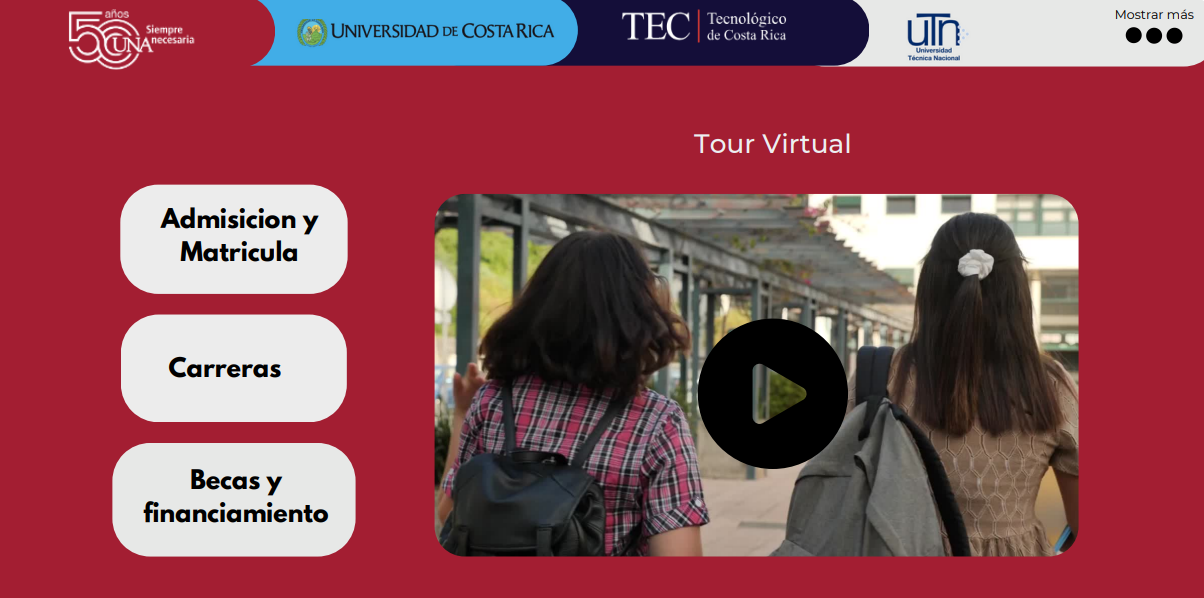
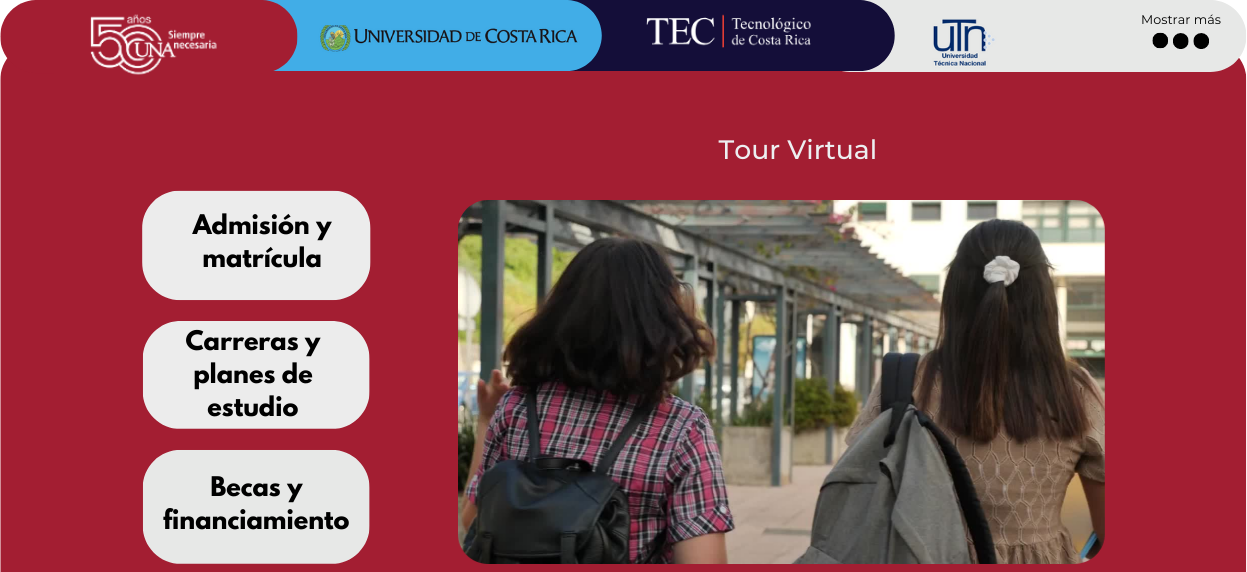
Cambios menores con tildes

diff --git a/app/components/Test.jsx b/app/components/Test.jsx
@@ -42,13 +42,19 @@ function Test() {
 
 		//find in score remainingLetters that it is equal to score of topTwoLetters
 
-		const extraMaxLetters = []
+		const extraMaxLetters2 = []
 		topTwoLetters.forEach((topLetter) => {
 			remainingLetters.forEach((remainingLetter) => {
 				if (score[topLetter] == score[remainingLetter])
-					extraMaxLetters.push(remainingLetter)
+					extraMaxLetters2.push(remainingLetter)
 			})
 		})
+		//remove duplicates from extraMaxLetters using set
+		const setExtraMaxLetters = new Set(extraMaxLetters2)
+		//convert set to array
+		const extraMaxLetters = [...setExtraMaxLetters]
+
+
 		//add extraMaxLetters to topTwoLetters
 		const topTwoLettersWithExtra = topTwoLetters.concat(extraMaxLetters)
 
@@ -120,9 +126,9 @@ function Test() {
 						})}
 					</div>
 					<p>
-            A continuación las areas de alta demanda laboral relacionadas a tu
-            personalidad vocacional. Dale click a tu carrera de interes para
-            conocer mas informacion al respecto.
+            A continuación las áreas de alta demanda laboral relacionadas a tu
+            personalidad vocacional. Dale click a tu carrera de interés para
+            conocer más información al respecto.
 					</p>
 					<div className="carrerasContainer">
 						{selectedLetters.map((letters, index) => {

diff --git a/app/carrera/[id]/[slug]/page.js b/app/carrera/[id]/[slug]/page.js
@@ -32,20 +32,20 @@ const Carrera = ({ params }) => {
 					</Link>
 
 					<Link href="/asesoria" className="btn btn-primary btn-sm bg-purple">
-            Buscas asistencia personalizada para elegir tu carrera?
+            Buscás asistencia personalizada para elegir tu carrera?
 					</Link>
 				</article>
 
 				<article>
 					<h1 className='mostrar'>
-            Analisis de mercado laboral:{' '}
+            Analisis de mercado laboral:
 						<span className="color-purple">{wordWithAccent}</span>
 					</h1>
 					<img className='mostrar' src={'/images/aml.png'} alt={data.imagen} height="650px" />
 					<p>
             Se encontraron un total de <strong>{data.ofertas} ofertas </strong>
-            de trabajo relacionadas a tu carrera universitaria de interes en la
-            ultima semana
+            de trabajo relacionadas a tu carrera universitaria de interés en la
+            última semana
 					</p>
 					<p>
             Generalmente los puestos de trabajo relacionados a esta carrera

diff --git a/app/registro/page.js b/app/registro/page.js
@@ -11,7 +11,7 @@ const Registro = () => {
 					<p>
             ¿Ya tienes una cuenta?
 						<Link href="/sign-up" passHref>
-              Inicia Sesion
+              Inicia Sesión
 						</Link>
 					</p>
 					<form>
@@ -25,7 +25,7 @@ const Registro = () => {
 						</div>
 						<div className="form-group">
 							<label className="labelBlack">
-                Ingresa tu numero de telefono
+                Ingresa tu número de teléfono
 							</label>
 							<input type="tel" />
 						</div>
@@ -37,7 +37,7 @@ const Registro = () => {
 						</div>
 						<div className="form-group">
 							<label className="labelBlack">
-                Cual es tu objectivo en esta aplicacion?
+                Cuál es tu objetivo en esta aplicación?
 							</label>
 							<textarea type="text" />
 						</div>

diff --git a/app/sign-up/page.js b/app/sign-up/page.js
@@ -8,7 +8,7 @@ const SignUp = () => {
 			<section className="pageSignUp">
 				<article></article>
 				<article>
-					<h1>Inicia Sesion</h1>
+					<h1>Hola!<br/> Inicia sesión</h1>
 					<form>
 						<div className="form-group">
 							<label className="labelWhite">Correo</label>
@@ -19,13 +19,13 @@ const SignUp = () => {
 							<input type="password" />
 						</div>
 						<Link href="/test" className="btn btn-login">
-              Iniciar Sesion
+              Iniciar Sesiȯn
 						</Link>
 					</form>
 					<p>
             ¿No tienes cuenta?
 						<Link href="/registro" passHref>
-              Registrate
+              Regístrate
 						</Link>
 					</p>
 				</article>

diff --git a/app/globals.css b/app/globals.css
@@ -68,11 +68,13 @@ body {
   flex-wrap: wrap;
 }
 .btn-primary {
+  display: flex;
+  justify-content: center;
   font-size: 1.5rem;
   font-weight: 600;
+  text-align: center;
   color: var(--color-texto-accento);
   background-color: var(--color-primario);
-  text-align: left;
   &:hover {
     color: var(--color-texto-accento);
     background-color: var(--color-secundario);
@@ -181,7 +183,7 @@ label {
   background-color: transparent;
   font-size: 3rem;
   &:hover {
-	background-color: var(--color-primario);
-	text-decoration: none;
+    background-color: var(--color-primario);
+    text-decoration: none;
   }
 }

diff --git a/app/app.css b/app/app.css
@@ -170,6 +170,8 @@
 .pageSignUp > article:nth-child(2) {
   display: flex;
   flex-direction: column;
+  align-items: center;
+  justify-content: center;
   width: 40%;
   height: auto;
 }
@@ -179,8 +181,7 @@
   font-size: 3rem;
   font-weight: 500;
   color: var(--color-texto-accento);
-  text-align: left;
-  margin-left: 2rem;
+  text-align: center;
   line-height: 1.2;
   margin-bottom: 3rem;
 }
@@ -190,7 +191,7 @@
   flex-direction: column;
   height: auto;
   gap: 3rem;
-  padding: 0 8rem 0 2rem;
+  padding: 0 2rem 0 2rem;
   align-items: center;
   justify-content: center;
 }
